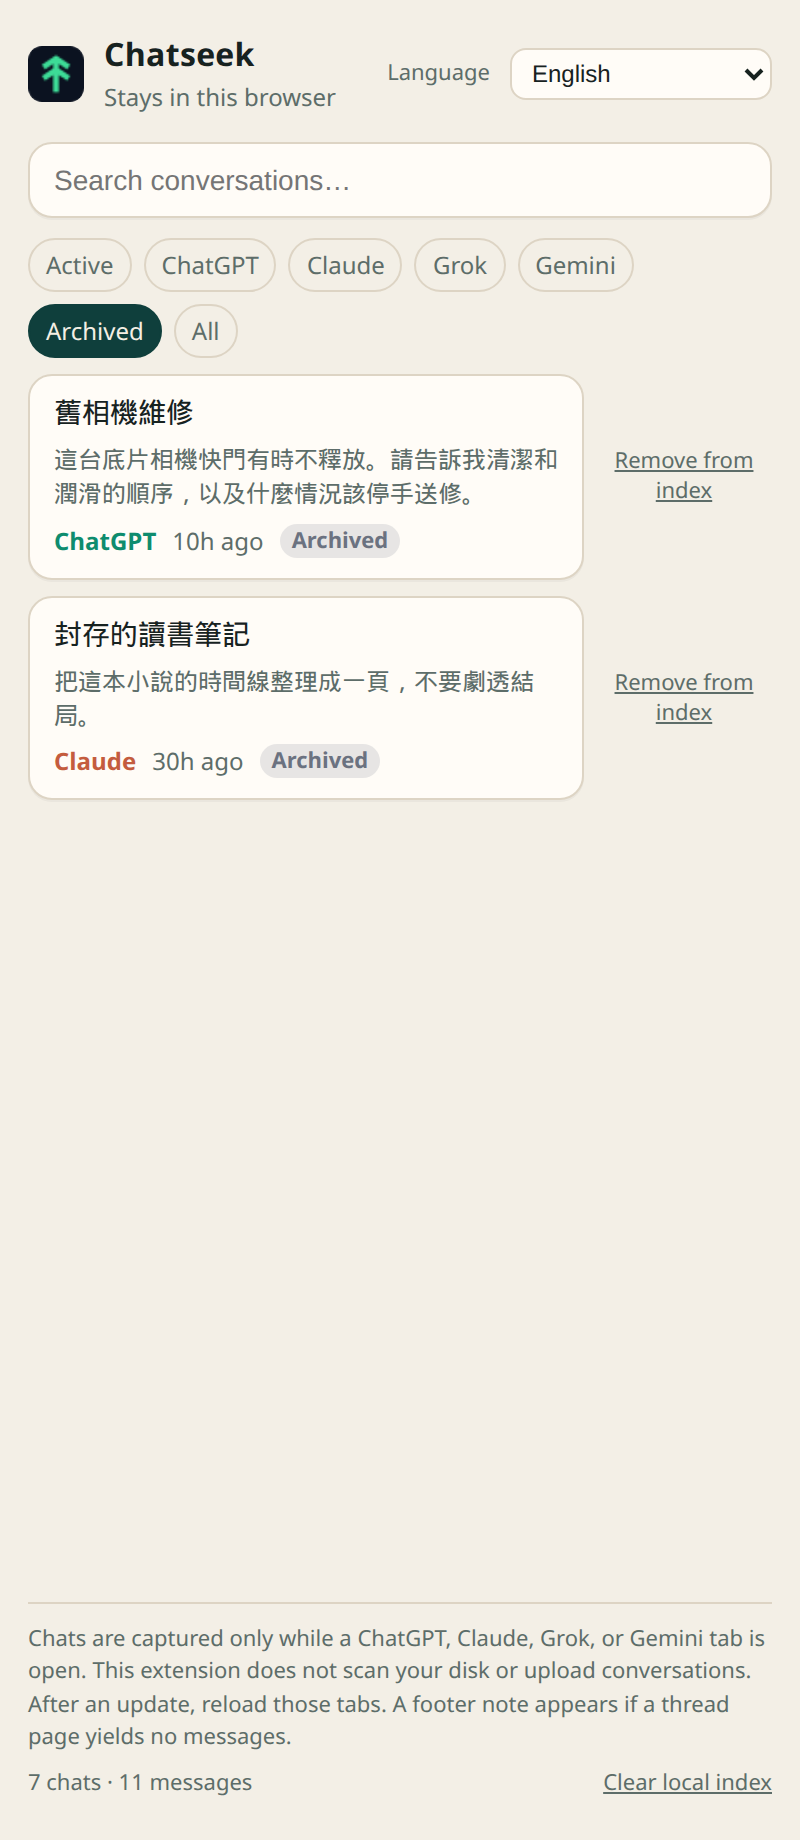
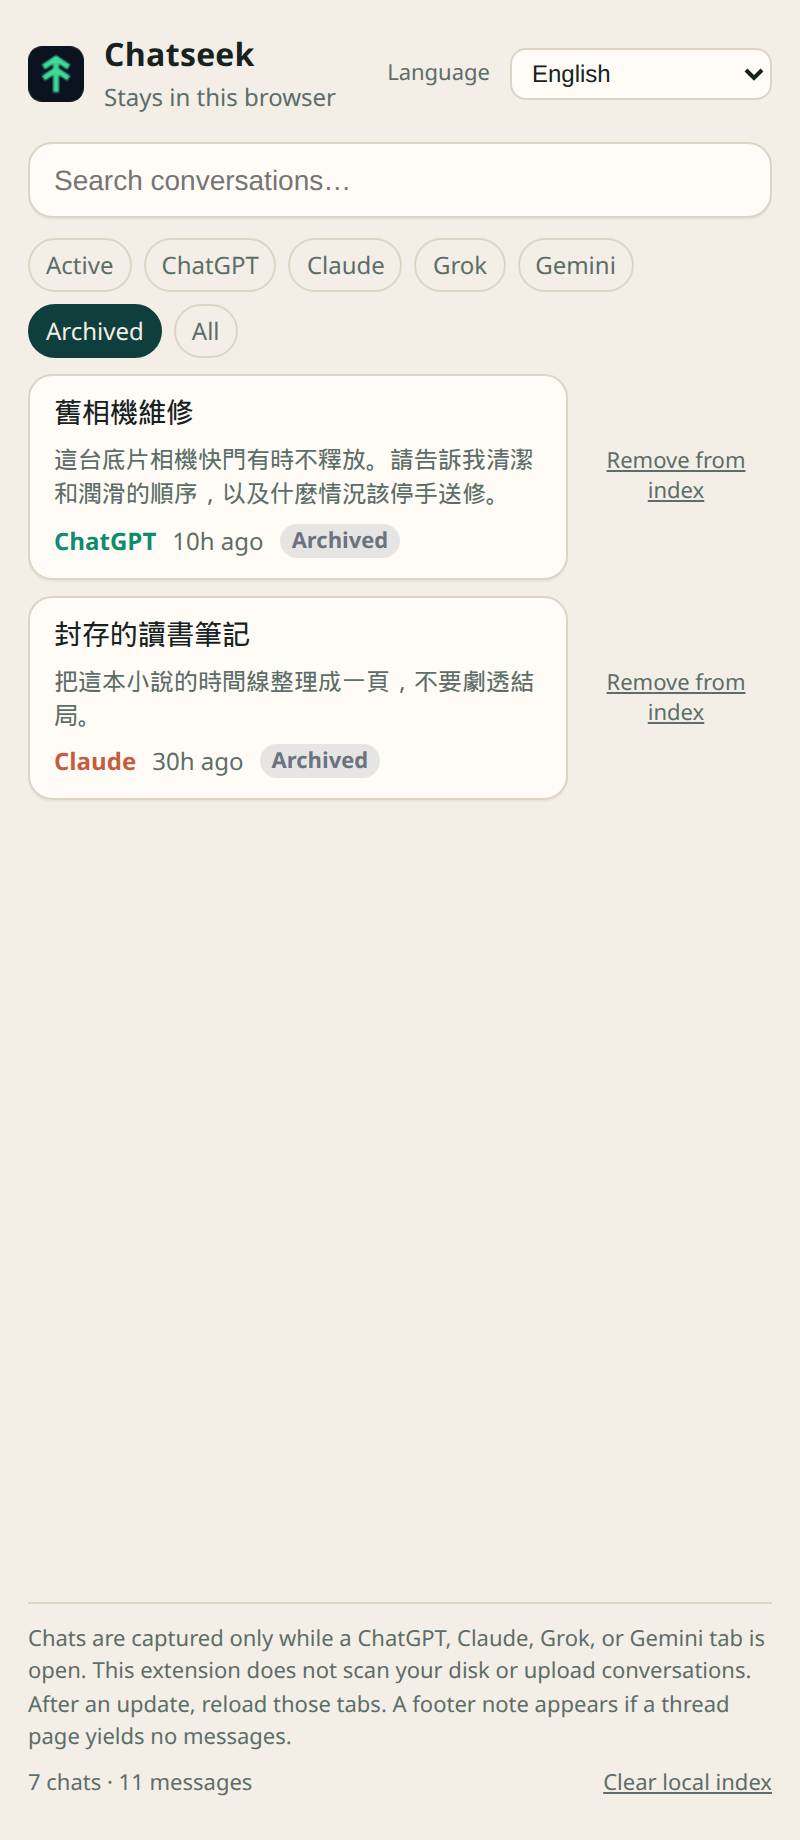
Drop the storage permission; keep the language choice in the panel's localStorage
- Follow-browser reads chrome.i18n.getUILanguage(); other open side panels follow a change.
- verify.mjs is back to permissions exactly ["sidePanel"].
- Tabs expose role=tab / aria-selected.
- Copy: Japanese uses インデックス, Korean drops corner quotes, natural 'browser language'
  labels, saved-date phrasing per language. Regenerated _locales and screenshots.

diff --git a/src/i18n.js b/src/i18n.js
@@ -143,7 +143,7 @@ export const CATALOG = {
     cancel: "Cancel",
     confirmRemove: "Remove",
     langLabel: "Language",
-    langFollow: "Follow browser",
+    langFollow: "Browser language",
     langNative: "English",
     noDate: "no date",
     justNow: "just now",
@@ -165,26 +165,26 @@ export const CATALOG = {
   ja: {
     extName: "Chatseek",
     extDescription: "このパソコンで ChatGPT、Claude、Grok、Gemini の会話を検索。データはブラウザの外に出ません。",
-    tag: "このブラウザの中だけ",
+    tag: "このブラウザ内にだけ保存",
     searchLabel: "タイトルとメッセージ全文を検索",
     searchPlaceholder: "会話を検索…",
     tabActive: "アクティブ",
     tabArchived: "アーカイブ",
     tabAll: "すべて",
-    empty: "まだ会話がありません。ChatGPT、Claude、Grok、Gemini のタブを開き、一覧か会話を表示すると、タイトルと画面上のメッセージがこの端末の索引に保存されます。",
+    empty: "まだ会話がありません。ChatGPT、Claude、Grok、Gemini のタブを開き、一覧か会話を表示すると、タイトルと画面上のメッセージがこの端末のインデックスに保存されます。",
     none: "一致する会話がありません。",
     loading: "検索しています…",
-    booting: "ローカルの索引を読み込んでいます…",
+    booting: "ローカルのインデックスを読み込んでいます…",
     hint: "開いている ChatGPT / Claude / Grok / Gemini のタブに表示された会話だけを保存します。ディスクの走査やアップロードはしません。拡張機能の更新後は会話のページを再読み込みしてください。メッセージを読めないページでは下に注意が出ます。",
     counts: "$1 件の会話 · $2 件のメッセージ",
     titleOnly: "タイトルのみ（メッセージ未保存）",
-    clear: "ローカル索引を消去",
+    clear: "ローカルのインデックスを消去",
     confirmClear: "このブラウザの IndexedDB にある会話とメッセージをすべて削除しますか？元に戻せません。",
-    error: "ローカル索引を読み取れませんでした。",
+    error: "ローカルのインデックスを読み込めませんでした。",
     archivedBadge: "アーカイブ済み",
-    remove: "索引から外す",
-    confirmRemoveTitle: "索引から外しますか？",
-    confirmRemoveBody: "「$1」をこの端末の索引から外しますか？サイト上の会話は削除されません。あとでその会話を開くと、もう一度索引に入ります。",
+    remove: "インデックスから外す",
+    confirmRemoveTitle: "インデックスから外しますか？",
+    confirmRemoveBody: "「$1」をこの端末のインデックスから外しますか？サイト上の会話は削除されません。あとでその会話を開くと、もう一度インデックスに追加されます。",
     cancel: "キャンセル",
     confirmRemove: "外す",
     langLabel: "言語",
@@ -199,8 +199,8 @@ export const CATALOG = {
     before: "$1 より前",
     beforeTitle: "上にある直近の確定時刻より前 · $1",
     unknown: "日付不明",
-    unknownSaved: "日付不明（保存 $1）",
-    saved: "保存 $1",
+    unknownSaved: "日付不明（$1 に保存）",
+    saved: "$1 に保存",
     fromGroup: "サイドバーのグループから推定",
     temporary: "$1：一時チャットは保存しません",
     warn: "$1 のページが変わった可能性があります。報告してください（最終取得 $2、メッセージ 0 件）",
@@ -210,7 +210,7 @@ export const CATALOG = {
   ko: {
     extName: "Chatseek",
     extDescription: "이 컴퓨터에서 ChatGPT, Claude, Grok, Gemini 대화를 검색합니다. 데이터는 브라우저 안에만 있습니다.",
-    tag: "이 브라우저 안에만",
+    tag: "이 브라우저에만 저장",
     searchLabel: "제목과 메시지 전문 검색",
     searchPlaceholder: "대화 검색…",
     tabActive: "활성",
@@ -220,7 +220,7 @@ export const CATALOG = {
     none: "일치하는 대화가 없습니다.",
     loading: "검색하는 중…",
     booting: "로컬 색인을 읽는 중…",
-    hint: "열려 있는 ChatGPT / Claude / Grok / Gemini 탭에 표시된 대화만 저장합니다. 디스크를 훑거나 내용을 올리지 않습니다. 확장 프로그램을 업데이트한 뒤에는 대화 페이지를 새로고침하세요. 메시지를 읽지 못한 페이지는 아래에 안내가 나옵니다.",
+    hint: "열려 있는 ChatGPT / Claude / Grok / Gemini 탭에 표시된 대화만 저장합니다. 디스크를 검색하거나 내용을 업로드하지 않습니다. 확장 프로그램을 업데이트한 뒤에는 대화 페이지를 새로고침하세요. 메시지를 읽지 못한 페이지는 아래에 안내가 나옵니다.",
     counts: "$1개 대화 · $2개 메시지",
     titleOnly: "제목만 있음, 메시지 없음",
     clear: "로컬 색인 지우기",
@@ -229,7 +229,7 @@ export const CATALOG = {
     archivedBadge: "보관됨",
     remove: "색인에서 제거",
     confirmRemoveTitle: "색인에서 제거할까요?",
-    confirmRemoveBody: "「$1」을(를) 이 기기의 색인에서 제거할까요? 웹사이트의 대화는 삭제되지 않습니다. 나중에 그 대화를 다시 열면 색인에 다시 들어옵니다.",
+    confirmRemoveBody: "'$1'을(를) 이 기기의 색인에서 제거할까요? 웹사이트의 대화는 삭제되지 않습니다. 나중에 그 대화를 다시 열면 다시 색인에 추가됩니다.",
     cancel: "취소",
     confirmRemove: "제거",
     langLabel: "언어",
@@ -244,8 +244,8 @@ export const CATALOG = {
     before: "$1 이전",
     beforeTitle: "위에 있는 가장 가까운 정확한 시각보다 이전 · $1",
     unknown: "날짜 알 수 없음",
-    unknownSaved: "날짜 알 수 없음 (저장 $1)",
-    saved: "저장 $1",
+    unknownSaved: "날짜 알 수 없음 ($1 저장)",
+    saved: "$1 저장",
     fromGroup: "사이드바 그룹으로 추정",
     temporary: "$1: 임시 채팅은 저장하지 않습니다",
     warn: "$1 페이지가 바뀌었을 수 있습니다. 알려 주세요 (마지막 수집 $2, 메시지 0개)",
@@ -278,7 +278,7 @@ export const CATALOG = {
     cancel: "Cancelar",
     confirmRemove: "Quitar",
     langLabel: "Idioma",
-    langFollow: "Seguir el navegador",
+    langFollow: "Idioma del navegador",
     langNative: "Español",
     noDate: "sin fecha",
     justNow: "ahora mismo",
@@ -289,8 +289,8 @@ export const CATALOG = {
     before: "antes de $1",
     beforeTitle: "Anterior a la hora exacta más cercana de arriba · $1",
     unknown: "Fecha desconocida",
-    unknownSaved: "Fecha desconocida (guardado $1)",
-    saved: "Guardado $1",
+    unknownSaved: "Fecha desconocida (guardado el $1)",
+    saved: "Guardado el $1",
     fromGroup: "Estimado por el grupo de la barra lateral",
     temporary: "$1: los chats temporales no se guardan",
     warn: "La página de $1 puede haber cambiado — avísanos (última captura $2, 0 mensajes)",
@@ -308,7 +308,7 @@ export const CATALOG = {
     tabAll: "Toutes",
     empty: "Aucune discussion pour l’instant. Ouvrez un onglet ChatGPT, Claude, Grok ou Gemini et parcourez la liste ou une discussion. Les titres et les messages visibles sont enregistrés dans l’index local.",
     none: "Aucune discussion correspondante.",
-    loading: "Recherche…",
+    loading: "Recherche en cours…",
     booting: "Lecture de l’index local…",
     hint: "Seules les discussions déjà affichées dans un onglet ChatGPT, Claude, Grok ou Gemini ouvert sont enregistrées. Pas d’analyse du disque, pas d’envoi. Après une mise à jour, rechargez ces onglets. Une note en bas apparaît si une page de discussion ne donne aucun message.",
     counts: "$1 discussions · $2 messages",
@@ -323,7 +323,7 @@ export const CATALOG = {
     cancel: "Annuler",
     confirmRemove: "Retirer",
     langLabel: "Langue",
-    langFollow: "Suivre le navigateur",
+    langFollow: "Langue du navigateur",
     langNative: "Français",
     noDate: "sans date",
     justNow: "à l’instant",
@@ -334,8 +334,8 @@ export const CATALOG = {
     before: "avant $1",
     beforeTitle: "Plus ancien que l’heure exacte la plus proche au-dessus · $1",
     unknown: "Date inconnue",
-    unknownSaved: "Date inconnue (enregistré $1)",
-    saved: "Enregistré $1",
+    unknownSaved: "Date inconnue (enregistrée le $1)",
+    saved: "Enregistrée le $1",
     fromGroup: "Estimé d’après le groupe de la barre latérale",
     temporary: "$1 : les discussions temporaires ne sont pas enregistrées",
     warn: "La page $1 a peut-être changé — signalez-le (dernière capture $2, 0 message)",
@@ -368,7 +368,7 @@ export const CATALOG = {
     cancel: "Abbrechen",
     confirmRemove: "Entfernen",
     langLabel: "Sprache",
-    langFollow: "Browser folgen",
+    langFollow: "Browsersprache",
     langNative: "Deutsch",
     noDate: "kein Datum",
     justNow: "gerade eben",
@@ -379,8 +379,8 @@ export const CATALOG = {
     before: "älter als $1",
     beforeTitle: "Älter als die nächste genaue Zeit darüber · $1",
     unknown: "Datum unbekannt",
-    unknownSaved: "Datum unbekannt (gespeichert $1)",
-    saved: "Gespeichert $1",
+    unknownSaved: "Datum unbekannt (gespeichert am $1)",
+    saved: "Gespeichert am $1",
     fromGroup: "Geschätzt aus der Seitenleisten-Gruppe",
     temporary: "$1: temporäre Chats werden nicht gespeichert",
     warn: "Die Seite von $1 hat sich vielleicht geändert — bitte melden (letzte Erfassung $2, 0 Nachrichten)",
@@ -413,7 +413,7 @@ export const CATALOG = {
     cancel: "Cancelar",
     confirmRemove: "Remover",
     langLabel: "Idioma",
-    langFollow: "Seguir o navegador",
+    langFollow: "Idioma do navegador",
     langNative: "Português (Brasil)",
     noDate: "sem data",
     justNow: "agora",

diff --git a/sidepanel/panel.js b/sidepanel/panel.js
@@ -12,10 +12,45 @@ import { conversationKeyFromUrl, shouldAutoScroll } from "../src/conversation-ur
 import { activeTabUrl, eventInWindow, locationFromMessage } from "../src/current-tab.js";
 import { CATALOG, LOCALE_ORDER, fill, resolveLocale, text } from "../src/i18n.js";
 
-const STORAGE_KEY = "uiLocale";
+// The panel is an extension page, so its own localStorage keeps the choice
+// without the "storage" permission. Only the panel reads it.
+const STORAGE_KEY = "chatseek.uiLocale";
 
-let localePref = "auto";
-let localeCode = resolveLocale(navigator.language);
+function browserLocale() {
+  try {
+    const ui = chrome.i18n?.getUILanguage?.();
+    if (ui) return ui;
+  } catch {
+    // Fall back to the page language below.
+  }
+  return navigator.language;
+}
+
+function localeFor(pref) {
+  return resolveLocale(pref === "auto" ? browserLocale() : pref);
+}
+
+function readLocalePref() {
+  try {
+    const pref = globalThis.localStorage?.getItem(STORAGE_KEY);
+    if (pref && CATALOG[pref]) return pref;
+  } catch {
+    // Storage blocked: follow the browser.
+  }
+  return "auto";
+}
+
+function writeLocalePref(pref) {
+  try {
+    if (pref === "auto") globalThis.localStorage?.removeItem(STORAGE_KEY);
+    else globalThis.localStorage?.setItem(STORAGE_KEY, pref);
+  } catch {
+    // The panel still switches for this view if storage is unavailable.
+  }
+}
+
+let localePref = readLocalePref();
+let localeCode = localeFor(localePref);
 
 function bundle(code) {
   const say = (key, ...args) => fill(text(code, key), ...args);
@@ -321,8 +356,10 @@ qEl.addEventListener("input", () => {
 
 document.querySelectorAll(".chip").forEach((chip) => {
   chip.addEventListener("click", () => {
-    document.querySelectorAll(".chip").forEach((c) => c.classList.remove("is-on"));
-    chip.classList.add("is-on");
+    document.querySelectorAll(".chip").forEach((c) => {
+      c.classList.toggle("is-on", c === chip);
+      c.setAttribute("aria-selected", c === chip ? "true" : "false");
+    });
     scope = chip.dataset.scope || "all";
     platform = scope === "platform" ? (chip.dataset.platform || "") : "";
     refresh();
@@ -352,16 +389,24 @@ document.addEventListener("keydown", (event) => {
   if (event.key === "Escape" && removeDialog && !removeDialog.hidden) closeRemove(false);
 });
 
-langEl?.addEventListener("change", async () => {
-  localePref = langEl.value || "auto";
-  localeCode = localePref === "auto" ? resolveLocale(navigator.language) : resolveLocale(localePref);
-  try {
-    await chrome.storage?.local?.set?.({ [STORAGE_KEY]: localePref });
-  } catch {
-    // The panel still switches for this view if storage is unavailable.
-  }
+function setLocalePref(pref) {
+  localePref = pref === "auto" || CATALOG[pref] ? pref : "auto";
+  localeCode = localeFor(localePref);
   applyStatic();
   refresh();
+}
+
+langEl?.addEventListener("change", () => {
+  const pref = langEl.value || "auto";
+  writeLocalePref(pref);
+  setLocalePref(pref);
+});
+
+// A side panel open in another window follows the change.
+window.addEventListener("storage", (event) => {
+  if (event.key !== STORAGE_KEY && event.key !== null) return;
+  const pref = readLocalePref();
+  if (pref !== localePref) setLocalePref(pref);
 });
 
 document.addEventListener("visibilitychange", () => {
@@ -438,18 +483,6 @@ function onActiveLocation(url) {
   setCurrentFromUrl(url);
 }
 
-async function loadLocalePref() {
-  try {
-    const stored = await chrome.storage?.local?.get?.(STORAGE_KEY);
-    const pref = stored?.[STORAGE_KEY];
-    if (pref === "auto" || (typeof pref === "string" && CATALOG[pref])) localePref = pref;
-  } catch {
-    localePref = "auto";
-  }
-  localeCode = localePref === "auto" ? resolveLocale(navigator.language) : resolveLocale(localePref);
-  applyStatic();
-}
-
 if (chrome.runtime?.onMessage) {
   chrome.runtime.onMessage.addListener((msg, sender) => {
     if (msg?.type === "INDEX_UPDATED") scheduleRefresh();
@@ -475,6 +508,6 @@ if (chrome.tabs?.onUpdated) {
   });
 }
 
-await loadLocalePref();
+applyStatic();
 resolvePanelWindow().then(syncActiveTab);
 refresh();

diff --git a/sidepanel/index.html b/sidepanel/index.html
@@ -29,13 +29,13 @@
     </div>
 
     <div class="filters" role="tablist">
-      <button type="button" class="chip is-on" data-scope="active" id="filterActive"></button>
-      <button type="button" class="chip" data-scope="platform" data-platform="chatgpt">ChatGPT</button>
-      <button type="button" class="chip" data-scope="platform" data-platform="claude">Claude</button>
-      <button type="button" class="chip" data-scope="platform" data-platform="grok">Grok</button>
-      <button type="button" class="chip" data-scope="platform" data-platform="gemini">Gemini</button>
-      <button type="button" class="chip" data-scope="archived" id="filterArchived"></button>
-      <button type="button" class="chip" data-scope="all" id="filterAll"></button>
+      <button type="button" role="tab" aria-selected="true" class="chip is-on" data-scope="active" id="filterActive"></button>
+      <button type="button" role="tab" aria-selected="false" class="chip" data-scope="platform" data-platform="chatgpt">ChatGPT</button>
+      <button type="button" role="tab" aria-selected="false" class="chip" data-scope="platform" data-platform="claude">Claude</button>
+      <button type="button" role="tab" aria-selected="false" class="chip" data-scope="platform" data-platform="grok">Grok</button>
+      <button type="button" role="tab" aria-selected="false" class="chip" data-scope="platform" data-platform="gemini">Gemini</button>
+      <button type="button" role="tab" aria-selected="false" class="chip" data-scope="archived" id="filterArchived"></button>
+      <button type="button" role="tab" aria-selected="false" class="chip" data-scope="all" id="filterAll"></button>
     </div>
 
     <p class="status" id="status" hidden></p>

diff --git a/sidepanel/panel.css b/sidepanel/panel.css
@@ -252,7 +252,8 @@ body {
   font-size: 11px;
   text-decoration: underline;
   padding: 4px 2px;
-  max-width: 5.5rem;
+  max-width: 6rem;
+  word-break: auto-phrase;
 }
 
 .badge-archived {
